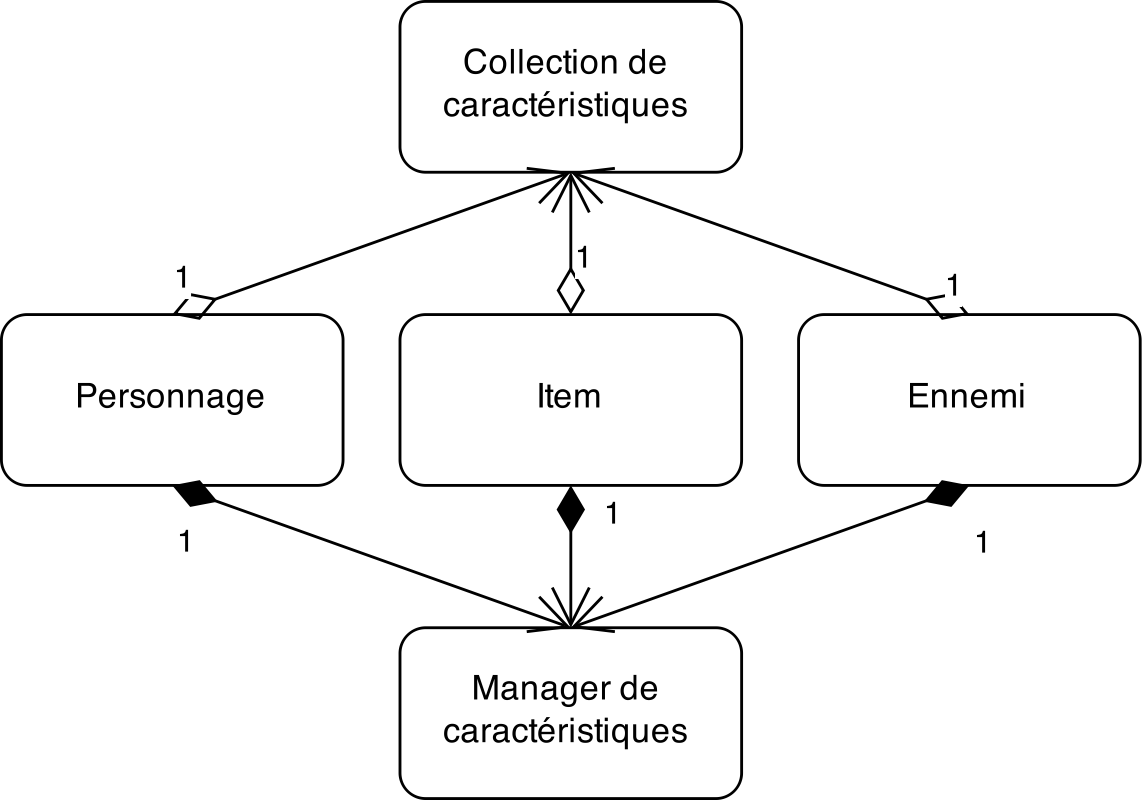
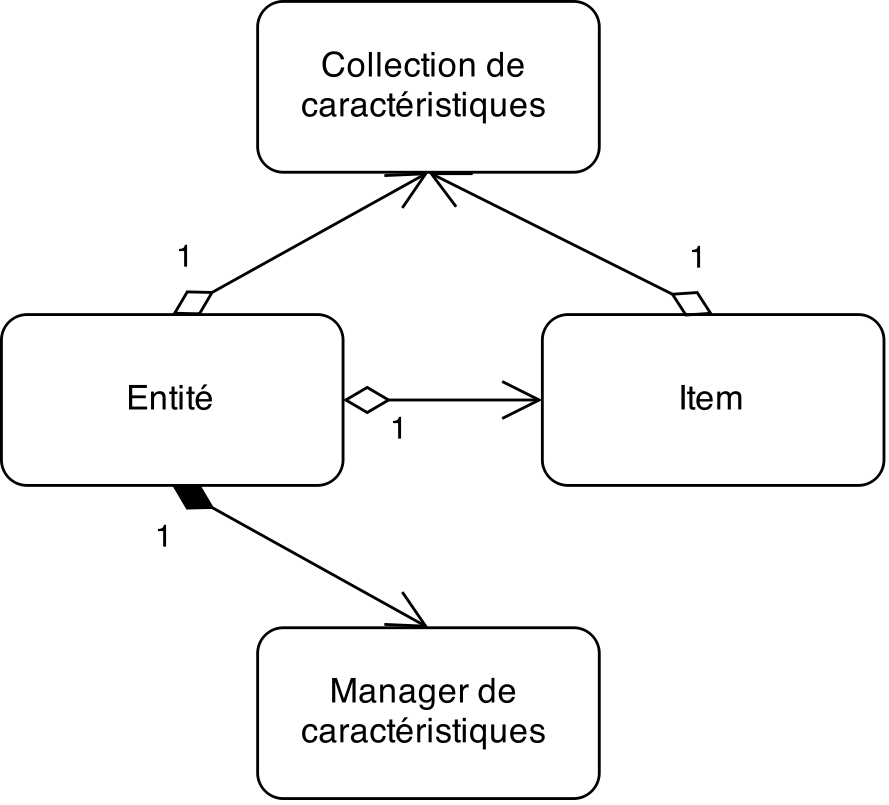
doc update

diff --git a/doc/edits/rapport.tex b/doc/edits/rapport.tex
@@ -61,20 +61,26 @@
 
 \setlength{\parindent}{0cm}
 
-\lstset{
-    basicstyle=\ttfamily,
-    stringstyle=\ttfamily\color{green!50!black},
-    keywordstyle=\bfseries\color{blue},
-    commentstyle=\itshape\color{red!50!black},
-    showstringspaces=true,
-    tabsize=4,
-    frame=single,
-    numbers=left,
-    numberstyle=\tiny,
-    firstnumber=1,
-    stepnumber=1,
-    numbersep=5pt,
-    breaklines=true
+\usepackage{color}
+\definecolor{bluekeywords}{rgb}{0.13,0.13,1}
+\definecolor{greencomments}{rgb}{0,0.5,0}
+\definecolor{redstrings}{rgb}{0.9,0,0}
+
+\lstset{language=[Sharp]C,
+	showspaces=false,
+	showtabs=false,
+	breaklines=true,
+	showstringspaces=false,
+	breakatwhitespace=true,
+	escapeinside={(*@}{@*)},
+	commentstyle=\color{greencomments},
+	keywordstyle=\color{bluekeywords}\bfseries,
+	stringstyle=\color{redstrings},
+	basicstyle=\ttfamily,
+	frame=single,
+	numbers=left,
+	numberstyle=\tiny,
+	tabsize=2,
 }
 
 \graphicspath{{img/}}
@@ -1121,13 +1127,32 @@ Monogame fournit des fonctionnalités indispensable pour le développement d'un 
 	\label{fig:loopmg}
 	\end{center}
 \end{figure}
-\section{Les bases}
+\subsection{Les boucles de jeu}
+\subsubsection{La boucle \textit{LoadContent}}
+La boucle \textit{LoadContent} sert à initialiser du contenu. Cette méthode peut se retrouver dans des classes pour initialiser le contenu de la classe comme les textures par exemple. La méthode est appelée une fois lors de l'initialisation.
+\subsubsection{La boucle \textit{UnloadContent}}
+La boucle \textit{UnloadContent} sert à retirer les variables comme les textures pour être sûr de leurs déchargement. La méthode est appelée seulement implicitement ou lors de la fermeture du programme.
+\subsubsection{La boucle \textit{Update}}
+La boucle \textit{Update} sert à mettre à jour tous les contenu non-graphique du jeu. Cette méthode peut se retrouver dans des classes qui nécessite d'étre mis-à-jour régulièrement quand il est possible. Elle est appelée constamment par Monogame.
+\subsubsection{La boucle \textit{Draw}}
+La boucle \textit{Draw} dessine le contenu sur l'écran du jeu. Cette méthode peut se retrouver dans des classes pour dessiner son contenu. Il est appelé constamment quand il est possible, car la boucle Update possède la priorité et si celui-ci est chargée, Monogame ignorera la méthode \textit{Draw}.
+\subsection{Les fonctionnalités utiles pour le projet}
+Monogame offre une gamme de fonctionnalités et de classes. 
+
+\section{La structure du projet}
 \subsection{Architecture du jeu}
 \begin{figure}[H]
 	\begin{center}
 	\includegraphics[width=0.8\textwidth]{StatesOfProgram}
 	\caption{Différents états du programme}
 	\label{fig:StatesOfProgram}
+	\end{center}
+\end{figure}
+\begin{figure}[H]
+	\begin{center}
+	\includegraphics[width=1\textwidth]{WorldObjects}
+	\caption{Schémas de hiérarchisation des objets du monde}
+	\label{fig:WorldObjects}
 	\end{center}
 \end{figure}
 \subsection{Classe de jeu de base}
@@ -1175,9 +1200,11 @@ Afin de créer un effet aléatoire, il est nécessaire d'initialiser le tableau 
 	\label{fig:mapgeneration}
 	\end{center}
 \end{figure}
-
 \section{Éléments du jeu}
 \subsection{Caractéristiques}
+\label{subsec:caracteristiques}
+Les caractéristique font l'essence même du jeu. Il faut qu'il soit placé dans tous les entités du jeu, parce que ceux-ci se repose dessus pour tous leurs actions. Les objets ou "items" sont des choses que les entités peuvent porter pour augmenter leurs caractéristiques global (Voir figure \ref{fig:FeatureGlobalWork}).
+Pour gérer tous les calculs entre les caractéristique, un manager de caractéristiques doit être placé sur l'entité. Le manager analysera tous les éléments possédant des caractéristique et fera une somme global pour fixer les caractéristiques final de l'entité.
 \begin{figure}[H]
 	\begin{center}
 	\includegraphics[width=0.5\textwidth]{FeatureGlobalWork}
@@ -1192,39 +1219,188 @@ Afin de créer un effet aléatoire, il est nécessaire d'initialiser le tableau 
 	\label{fig:FeatureCollection}
 	\end{center}
 \end{figure}
-% Expliquer le fonctionnement des caractéristiques
-\subsection{Entités}
-\begin{figure}[H]
+Le \textit{FeatureCollection} est la classe qui permet de stocker ces caractéristiques. Elle ne fait rien de spécial sauf stocker ses valeurs. C'est pourquoi trois propriétés de caractéristiques existe sur une entité (voir listing \ref{lst:maxforceentity}) :
+\begin{description}[labelindent=0.5cm]
+	\item[InitialValue] Les caractéristiques initial de l'entité
+	\item[MaximizedFeatures] Les caractéristiques maximum en tenant compte des sorts et des objets qu'il porte.
+	\item[ActualFeatures] Les caractéristiques en tenant compte des sorts et des objets qu'il porte et aussi de dégâts et effets néfaste de l'entité.
+\end{description}
+Voir figure \ref{fig:FeatureCollection} pour le diagramme de classe d'une collection de caractéristiques.
+\begin{lstlisting}[caption=Exemple de calcul de la force maximal d'une entité, label=lst:maxforceentity]
+/// <summary>
+/// Calculates the total strenght within the items, spells and initial values
+/// </summary>
+/// <returns>Total strenght</returns>
+public float GetTotalStrenght() {
+	// Gets the initial strenght of the entity
+	float str = this.InitialFeatures.Strenght;
+	// For each currently active spell, we add the strenght of it
+	for (int i = 0; i < this.ActiveSpells.Count; i++)
+	{
+		str += this.ActiveSpells[i].Features.Strenght;
+	}
+	// For each worn item of the entity, we add the strenght of it
+	for (int i = 0; i < this.ActiveItems.Count; i++)
+	{
+		str += this.ActiveItems[i].Features.Strenght;
+	}
+	return str; // return the total
+	
+}
+\end{lstlisting}
+\subsection{La classe entité}
+La classe entité (\textit{HEntity}, voir figure \ref{fig:HEntity}) est une classe abstraite qui forme la base de tous les entités "intelligent" du jeu. C'est-à-dire des unités qui possèdent des caractéristiques pour interagir avec le joueur.
+\begin{figure}[h]
 	\begin{center}
-	\includegraphics[width=1\textwidth]{WorldObjects}
-	\caption{Schémas de hiérarchisation des objets du monde}
-	\label{fig:WorldObjects}
-	\end{center}
-\end{figure}
-\subsubsection{Personnages}
-% Expliquer la base des personnage
-\begin{figure}[H]
-	\begin{center}
-	\includegraphics[width=.35\textwidth]{HEntity}
+	\includegraphics[width=.6\textwidth]{HEntity}
 	\caption{Diagramme de classe d'une entité du jeu}
 	\label{fig:HEntity}
 	\end{center}
 \end{figure}
-\subsubsection{Personnage jouable}
-\begin{figure}[H]
+Pour une explication de InitialFeatures, ActualFeatures et MaximizedFeatures, voir la section \ref{subsec:caracteristiques} sur les caractéristiques.
+
+\subsubsection{Les états}
+Une entité doit également posséder un état pour savoir ce qu'il es en train de faire. Ses états sont les suivants : 
+\begin{description}[labelindent=0.5cm]
+	\item[S0 Idle] Il ne fait rien
+	\item[S1 Running] Il est en déplacement
+	\item[S2 MeleeAttacking] Il exécute une attaque au corps-à-corps
+	\item[S3 RangeAttacking] Il exécute une attaque à distance
+	\item[S4 SpellCasting] Il exécute un sort
+\end{description}
+
+\begin{figure}[h]
+	\begin{center}
+	\includegraphics[width=.6\textwidth]{StatesEntity}
+	\caption{Machine d'état d'une entité}
+	\label{fig:StatesEntity}
+	\end{center}
+\end{figure}
+
+\subsubsection{Le déplacement d'une entité}
+Il est aussi important mettre en place un mécanisme de déplacement de l'entité (voir section \ref{subsubsec:deplacement}) et avec ça une direction au quelle l'unité fait face. Cette direction doit être mise-à-jour à chaque déplacement. La direction sert de référence pour tirer des projectile dans le bon endroit.
+
+\subsubsection{Les limites de collisions}
+Les limites ou \textit{Bounds} sert de zone de collision. Tous autre objets du jeu possédant la propriété \textit{IsWalkable} (voir section \ref{subsec:classdebase}) à false, se trouvera bloqué par celui-ci. De même que tout projectile ou attaque fait dans la zone engendrera des dégâts à l'entité.
+
+\subsubsection{La portée d'action}
+Une entité doit pouvoir interagir avec les autres, c'est pourquoi il faut aussi ajouter des limites d'attaques ou \textit{attack bounds}. Ce qui permet de connaître la portée des attaques de cette entité. Lorsque qu'une autre entité se trouve dans cette zone celui-ci peut se faire attaquer. Par exemple, lorsque qu'une portée d'une entité touche les limites (correspondant à la texture) d'une autre entité, celui-ci peut désormais l'attaquer (Voir figure \ref{fig:hitbox}).
+
+\begin{figure}[h]
+	\begin{center}
+	\includegraphics[width=.5\textwidth]{hitbox}
+	\caption{Portée des entités}
+	\label{fig:hitbox}
+	\end{center}
+\end{figure}
+
+\subsubsection{La texture}
+Les textures sont simple d'intégration puisqu'il fait partie de fonctionnalités que monogame offre. Il faut alors chargée une \textit{Texture2D} et le dessiner. Les animations ne sont pas fait parce que ce n'est pas une priorité.
+\begin{lstlisting}[caption=Affichage de la texture sur l'écran, label=lst:afftextuecran]
+Vector2 position = ScreenManager.Instance.GetCorrectScreenPosition(boundsPosA, PlayScreen.Instance.Camera.Position);
+spriteBatch.Draw(this.Texture, position, Color.White);
+\end{lstlisting}
+
+\subsubsection{Le temps de dernière attaque}
+Il est important de garder en mémoire le temps de la dernière attaque d'une entité, c'est ce qui permet de régler le temps qu'il y a entre chaque attaque avec les caractéristiques de celui-ci. Pour connaître le nombre d'attaque par seconde ($v$), il fait diviser $1$ par la vitesse d'attaque de l'entité ($a$). $(v = \frac{1}{a})$. Si le temps entre la dernière attaque et le temps actuel est plus grand ou égal à $v$ ($t_1 - t_2 >= v$), l'entité est libre d'effectuer une action.
+
+\subsubsection{La mort de l'entité}
+Si l'entité se retrouve avec 0 dans ses points de vie, celui-ci est mort. Une fois cette propriété à \textit{true}, l'unité se fait effacer par le gestionnaire de partie.
+
+\subsection{Personnage jouable}
+Le personnage jouable est une entité qui est contrôlée par l'utilisateur. Il possède donc des méthodes et propriétés qui lui sont propres. Le personnage a en plus :
+\begin{itemize}
+	\item Des sorts
+	\item Des objets (\textit{items})
+	\item Des actions par périphériques d'entrée
+\end{itemize}
+\begin{figure}[h]
 	\begin{center}
 	\includegraphics[width=.35\textwidth]{HHero}
 	\caption{Diagramme de classe du personnage jouable}
 	\label{fig:HHero}
 	\end{center}
 \end{figure}
-\subsubsection{Déplacement}
-\subsubsection{Objets}
-\subsubsection{Attaques}
-\subsubsection{Sorts}
-\subsubsection{Ennemis}
-% Expliquer l'IA
-\subsection{Objects}
+\subsection{Déplacement}
+\label{subsubsec:deplacement}
+Le déplacement d'une entité se fait avec des vecteurs. La méthode prend deux vecteurs : la position et le point de déplacement. 
+$$\vec{v} = \vec{v_1} - \vec{v_2}$$
+Il faut ensuite normaliser ce vecteur qui est la direction. $|\vec{v}|$. Pour connaître la nouvelle position selon le temps et vitesse de déplacement cette formule est appliquée:
+$$\vec{v} * \Delta t * s$$
+$\vec{v}$ : Vecteur de direction normalisé\\
+$\Delta t$ : Temps écoulé depuis le dernier \textit{Update}\\
+$s$ : Vitesse de déplacement de l'entité
+
+Il faut ensuite addition ce vecteur à la position actuel du personnage.
+
+\subsubsection{Gestion des obstacles}
+Lors d'un déplacement il est important de prendre en compte les obstacles autour de l'entité, c'est pourquoi il faut faire un vérification de la nouvelle position avec les éléments du jeu, cellule de la carte et autres entités. Si celui-ci est obstrué, on retire un des axes du vecteur de déplacement et réessaye, si il est de-nouveau obstrué, il faut remettre l'axe retiré et essayer avec l'autre. Si il n'y a toujours pas de solution, il ne faut pas validé le déplacement (voir figure \ref{fig:ObstacleManagement}).
+\begin{figure}[htp]
+	\begin{center}
+	\includegraphics[width=.75\textwidth]{ObstacleManagement}
+	\caption{Diagramme de flux du management d'obstacle}
+	\label{fig:ObstacleManagement}
+	\end{center}
+\end{figure}
+
+\subsection{Ennemis}
+Les ennemis sont des entité possédant une "intelligence" contrôlée par l'ordinateur. Cette unité possède plus de zone de détection pour faire illusion d'une intelligence pour que le jeu soit plus jouable. Les propriétés ajouté sont :
+\begin{description}[labelindent=0.5cm]
+	\item[FieldOfView] La zone de détection
+	\item[IsAlerted] L'ennemi à détecter le joueur
+\end{description}
+
+Pour que cet entité détecte des joueur, une zone de détection. Cette zone de détection est faite avec un FRectangle (voir section \ref{subsec:intersections}) qui permet de voir si les limites du joueur et de l'ennemi se touchent. Une fois détecter cette zone agrandi et l'entité passe en mode alerte jusqu'à qu'il perde de vue le joueur (voir figure \ref{fig:DetectionJoueur}).
+
+\begin{figure}[htp]
+	\begin{center}
+	\includegraphics[width=.8\textwidth]{DetectionJoueur}
+	\caption{Diagramme de flux de la détection des hostiles}
+	\label{fig:DetectionJoueur}
+	\end{center}
+\end{figure}
+
+\subsection{Objets - \textit{items}}
+Les \textit{items} sont des objets que le personnage jouable peut ramasser et stocker dans son inventaire. Il peut de même les équiper sur soit. Les items possèdent des caractéristiques (voir section \ref{subsec:caracteristiques}), une fois que le personnage joueur équipe un item, il ajoute les caractéristiques de l'item sur soit grâce au manager de caractéristiques (voir listing \ref{lst:maxforceentity} pour un exemple de calcul du manager).
+\begin{figure}[h]
+	\begin{center}
+	\includegraphics[width=.4\textwidth]{HItem}
+	\caption{Diagramme de classe de HItem}
+	\label{fig:HItem}
+	\end{center}
+\end{figure}
+\subsection{Attaques}
+\subsubsection{Corps-à-corps}
+Les attaque corps à corps peuvent seulement toucher une autre entité. La cible choisi doit se trouver dans la zone d'attaque au corps-à-corps. Lui infligeant ainsi des dégâts selon les caractéristiques. Voir listing \ref{lst:basicmeleeattack}.
+\begin{lstlisting}[caption=Attaque au corps-à-corps, label=lst:basicmeleeattack]
+/// <summary>
+/// Basic melee attack
+/// </summary>
+/// <param name="target">Targeted enemy</param>
+public void BasicMeleeAttack(HEntity target, GameTime gameTime)
+{
+	// Gets the current time of the game
+	double currentTime = gameTime.TotalGameTime.TotalSeconds;
+	// Calculates the number of seconds per attack
+	float secPerAttack = 1f / this.ActualFeatures.AttackSpeed;
+	
+	// If the attack can be made
+	if (currentTime - this._lastAttackTime >= secPerAttack)
+	{
+		float minDmg = this.ActualFeatures.MinimumDamage;
+		float maxDmg = this.ActualFeatures.MaximumDamage;
+		float receivedDamage = (float)this._rand.NextDouble();
+		receivedDamage = (maxDmg - minDmg) * receivedDamage + minDmg;
+		float realReceivedDamage = this.FeatureCalculator.GetReceivedPhysicalDamage(receivedDamage);
+		realReceivedDamage = realReceivedDamage * (this.ActualFeatures.Strenght / 100 + 1);
+		target.ActualFeatures.LifePoints -= realReceivedDamage;
+		this._lastAttackTime = currentTime;
+	}
+}
+\end{lstlisting}
+\subsubsection{Distance}
+Les attaque à distance peuvent seulement toucher une autre entité avec le projectile. Le projectile ne peut pas aller plus loin que le zone d'attaque à distance et peut seulement toucher une entité, lui infligeant ainsi des dégâts selon les caractéristiques.
+\subsection{Sorts}
 \section{Outils de développement}
 \subsection{Primitives 2D}
 \subsection{Intersections}
@@ -1383,8 +1559,7 @@ Le planning du projet se décompose en plusieurs parties :\\
 	    \gantttitle{29}{1} % 13
 	    \gantttitle{30}{1} \ganttnewline % 14
 	    
-	    \ganttbar[bar/.append style={fill=red}]{Code backbone}{7}{13} \ganttnewline
-	    \ganttbar[bar/.append style={fill=red}]{Code essentiel}{0}{0} \ganttnewline
+	    \ganttbar[bar/.append style={fill=red}]{Code backbone}{7}{14} \ganttnewline
 	    \ganttbar[bar/.append style={fill=blue}]{Poster}{11}{11}
 	    \ganttbar[bar/.append style={fill=blue}]{}{13}{13}
 	    \ganttnewline
@@ -1417,9 +1592,9 @@ Le planning du projet se décompose en plusieurs parties :\\
 	    \gantttitle{21}{1} % 13
 	    \gantttitle{22}{1} \ganttnewline % 14
 	
-	    \ganttbar[bar/.append style={fill=red}]{Code essentiel}{0}{0} \ganttnewline
-	    \ganttbar[bar/.append style={fill=green}]{Contenu \& Équilibrage}{0}{0} \ganttnewline
-	    \ganttbar[bar/.append style={fill=blue}]{Documentation}{0}{0}
+	    \ganttbar[bar/.append style={fill=red}]{Code essentiel}{1}{14} \ganttnewline
+	    \ganttbar[bar/.append style={fill=green}]{Contenu \& Équilibrage}{20}{22} \ganttnewline
+	    \ganttbar[bar/.append style={fill=blue}]{Documentation}{10}{14}
 	\end{ganttchart}
 	\caption{Planning final de la première partie du mois de mai}
 	\end{center}
@@ -1437,9 +1612,9 @@ Le planning du projet se décompose en plusieurs parties :\\
 	    \gantttitle{29}{1} % 4
 	    \gantttitle{1}{2} \ganttnewline % 5
 	
-	    \ganttbar[bar/.append style={fill=green}]{Contenu \& Équilibrage}{0}{0} \ganttnewline
-	    \ganttbar[bar/.append style={fill=yellow}]{Tests}{0}{0} \ganttnewline
-	    \ganttbar[bar/.append style={fill=blue}]{Documentation}{0}{0} \ganttnewline
+	    \ganttbar[bar/.append style={fill=green}]{Contenu \& Équilibrage}{4}{5} \ganttnewline
+	    \ganttbar[bar/.append style={fill=yellow}]{Tests}{4}{5} \ganttnewline
+	    \ganttbar[bar/.append style={fill=blue}]{Documentation}{1}{5} \ganttnewline
 	    \ganttmilestone{Rendu final}{6}
 	\end{ganttchart}
 	\caption{Planning final de la deuxième partie du mois de mai et le mois de juin}
@@ -1449,4 +1624,5 @@ Le planning du projet se décompose en plusieurs parties :\\
 % --------------------------------------------------
 \listoffigures
 \listoftables
+\lstlistoflistings
 \end{document}

diff --git a/src/HelProject/GameWorld/Map/HCell.cs b/src/HelProject/GameWorld/Map/HCell.cs
@@ -9,10 +9,6 @@
 using HelProject.Tools;
 using Microsoft.Xna.Framework;
 using System;
-using System.Collections.Generic;
-using System.Linq;
-using System.Text;
-using System.Xml;
 using System.Xml.Serialization;
 #endregion
 
